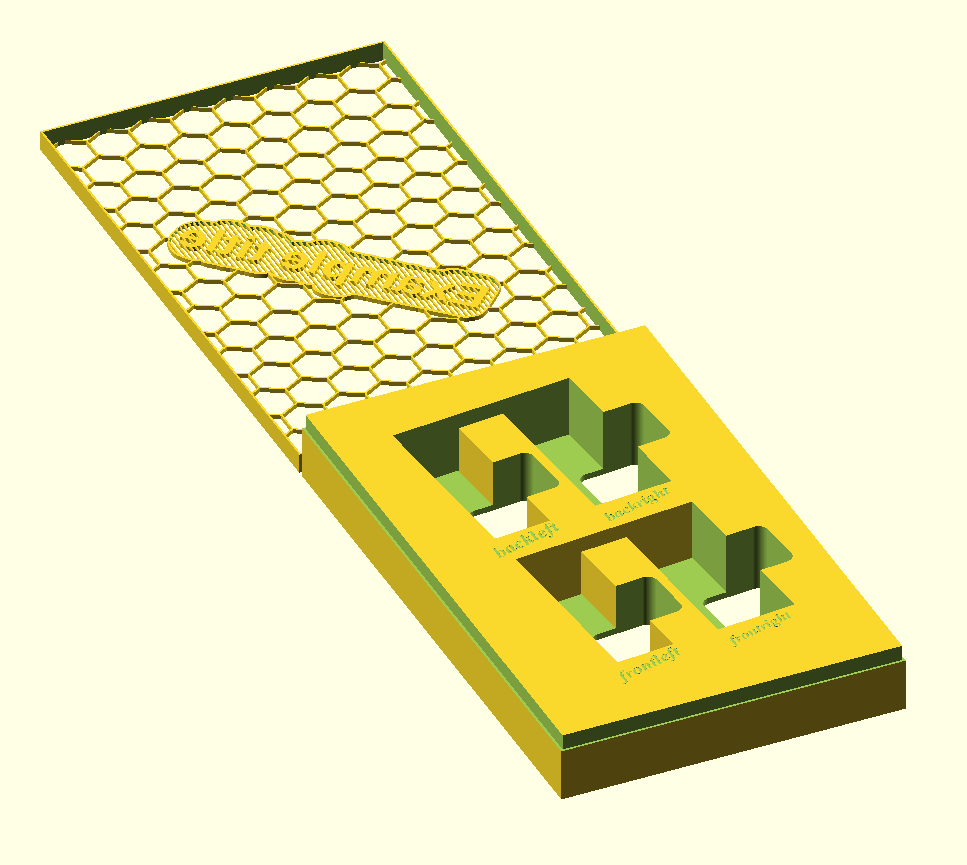
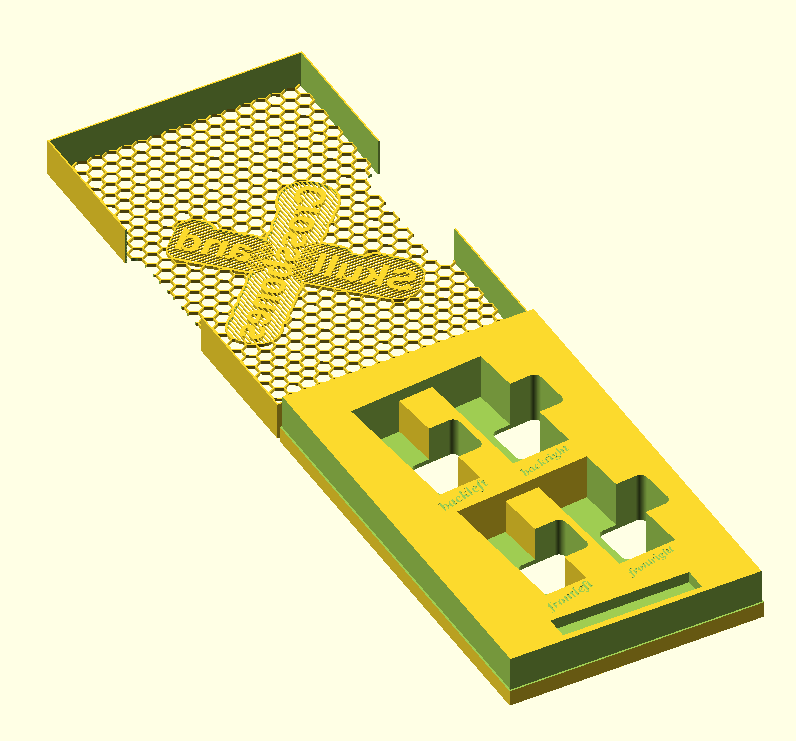
...

Changed region(s): [[0.0302, 0.031, 0.9648, 0.9622]]

diff --git a/README.md b/README.md
@@ -59,12 +59,13 @@ Here is an example of some compartments designed to hold cards, with holes to ge
 
     [   "example 1",
         [
-            [ BOX_SIZE_XYZ,                             [110.0, 180.0, 22.0] ],             
-            [ ENABLED_B,                                t],
-            [ BOX_LID_NOTCHES_B,                        f],
-            [ BOX_LID_HEX_RADIUS,                       8.0],
-            [ BOX_LID_FIT_UNDER_B,                      f],
-
+            [ BOX_SIZE_XYZ,             [110.0, 180.0, 22.0] ],
+            [ ENABLED_B,                t],
+            [ BOX_LID_NOTCHES_B,        f],
+            [ BOX_LID_FIT_UNDER_B,      f],
+            [ BOX_LID_CUTOUT_SIDES_4B, [f,f,t,t]],
+            [ BOX_LID_SOLID_B, f],
+            [ BOX_LID_HEIGHT, 15 ],
 
             [ LABEL,
                 [
@@ -79,32 +80,33 @@ Here is an example of some compartments designed to hold cards, with holes to ge
                 [
                     [ LBL_TEXT,     "Crossbones"],
                     [ LBL_SIZE,     AUTO ],
-                    [ ROTATION,     -45 ],
+                    [ ROTATION,     315 ],
                     [ POSITION_XY, [ -4,-0]],
                 ]
-            ],
+            ],        
+
 
             [   BOX_COMPONENT,
                 [
-                    [CMP_COMPARTMENT_SIZE_XYZ,              [ 22, 60.0, 20.0] ],    
-                    [CMP_NUM_COMPARTMENTS_XY,               [2,2] ],                
-                    [CMP_SHAPE,                             SQUARE],                
-                    [CMP_SHAPE_ROTATED_B,                   f],                     
-                    [CMP_SHAPE_VERTICAL_B,                  f],                     
-                    [CMP_PADDING_XY,                        [15,12]],               
-                    [CMP_PADDING_HEIGHT_ADJUST_XY,          [-5, 0] ],             
-                    [CMP_MARGIN_4B,                         [t,f,f,f]],             
-                    [CMP_CUTOUT_SIDES_4B,                   [f,f,f,t]],             
-                    [ROTATION,                              5 ],                    
-                    [POSITION_XY,                           [CENTER,CENTER]],   
+                    [CMP_COMPARTMENT_SIZE_XYZ,              [ 22, 60.0, 20.0] ],
+                    [CMP_NUM_COMPARTMENTS_XY,               [2,2] ],
+                    [CMP_SHAPE,                             SQUARE],
+                    [CMP_SHAPE_ROTATED_B,                   f],
+                    [CMP_SHAPE_VERTICAL_B,                  f],
+                    [CMP_PADDING_XY,                        [15,12]],
+                    [CMP_PADDING_HEIGHT_ADJUST_XY,          [-5, 0] ],
+                    [CMP_MARGIN_4B,                         [t,f,f,f]],
+                    [CMP_CUTOUT_SIDES_4B,                   [f,f,f,t]],
+                    [ROTATION,                              5 ],
+                    [POSITION_XY,                           [CENTER,CENTER]],
                     [LABEL,               
                         [
                             [LBL_TEXT,        [   
-                                                ["backleft", "backright"],        
+                                                ["backleft", "backright"],
                                                 ["frontleft", "frontright"],
                                             ]
                             ],
-                            [LBL_PLACEMENT,     FRONT],                           
+                            [LBL_PLACEMENT,     FRONT],
                             [ ROTATION,         10],
                             [ LBL_SIZE,         AUTO],
                             [ POSITION_XY,      [ -4,-2]],
@@ -114,15 +116,16 @@ Here is an example of some compartments designed to hold cards, with holes to ge
                     ],  
                 ]
             ],
-            [ BOX_COMPONENT,
+           [ BOX_COMPONENT,
                 [
                     [CMP_NUM_COMPARTMENTS_XY,       [1,1]],
                     [CMP_COMPARTMENT_SIZE_XYZ,      [ 60.0, 10.0, 5.0] ],
                     [POSITION_XY,                   [CENTER,2]],
                 ]
-            ],                
+            ],                              
+
         ]
-    ],
+    ]
 
 And this is the result:
 ![example2](https://github.com/IdoMagal/The-Boardgame-Insert-Toolkit/blob/master/images/example2.png)
